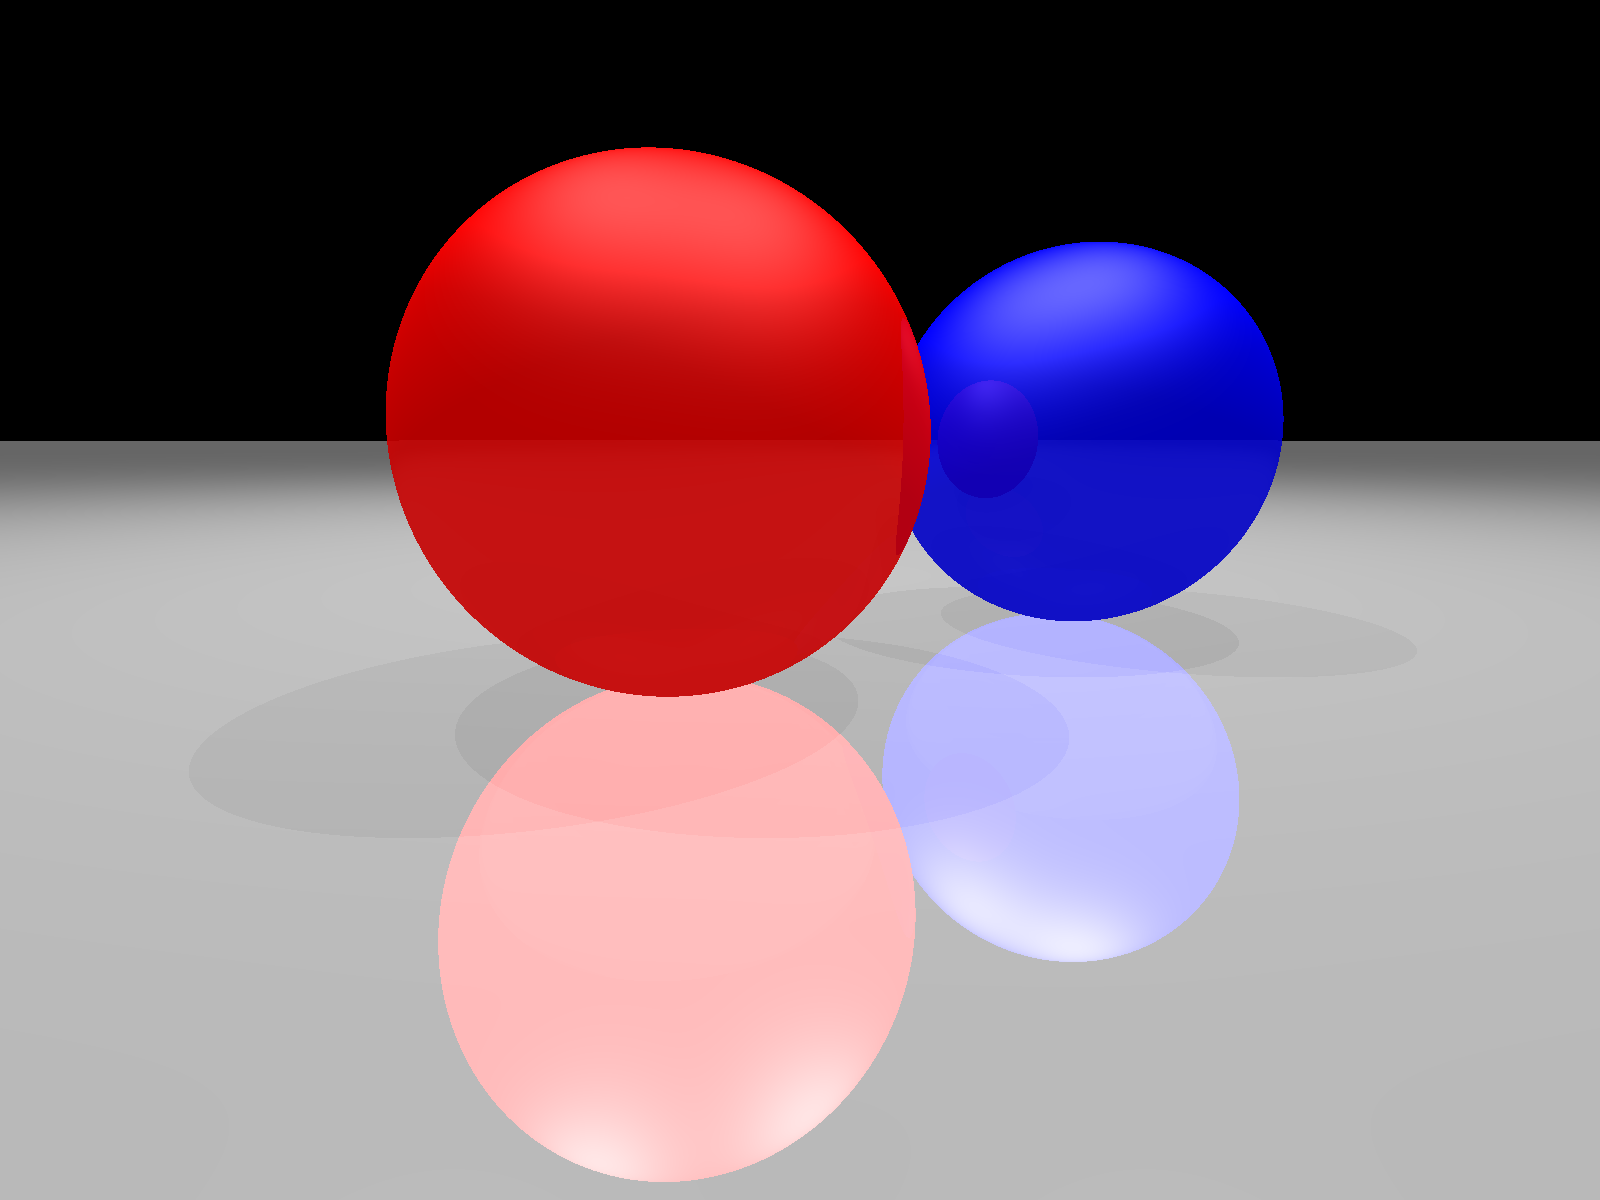
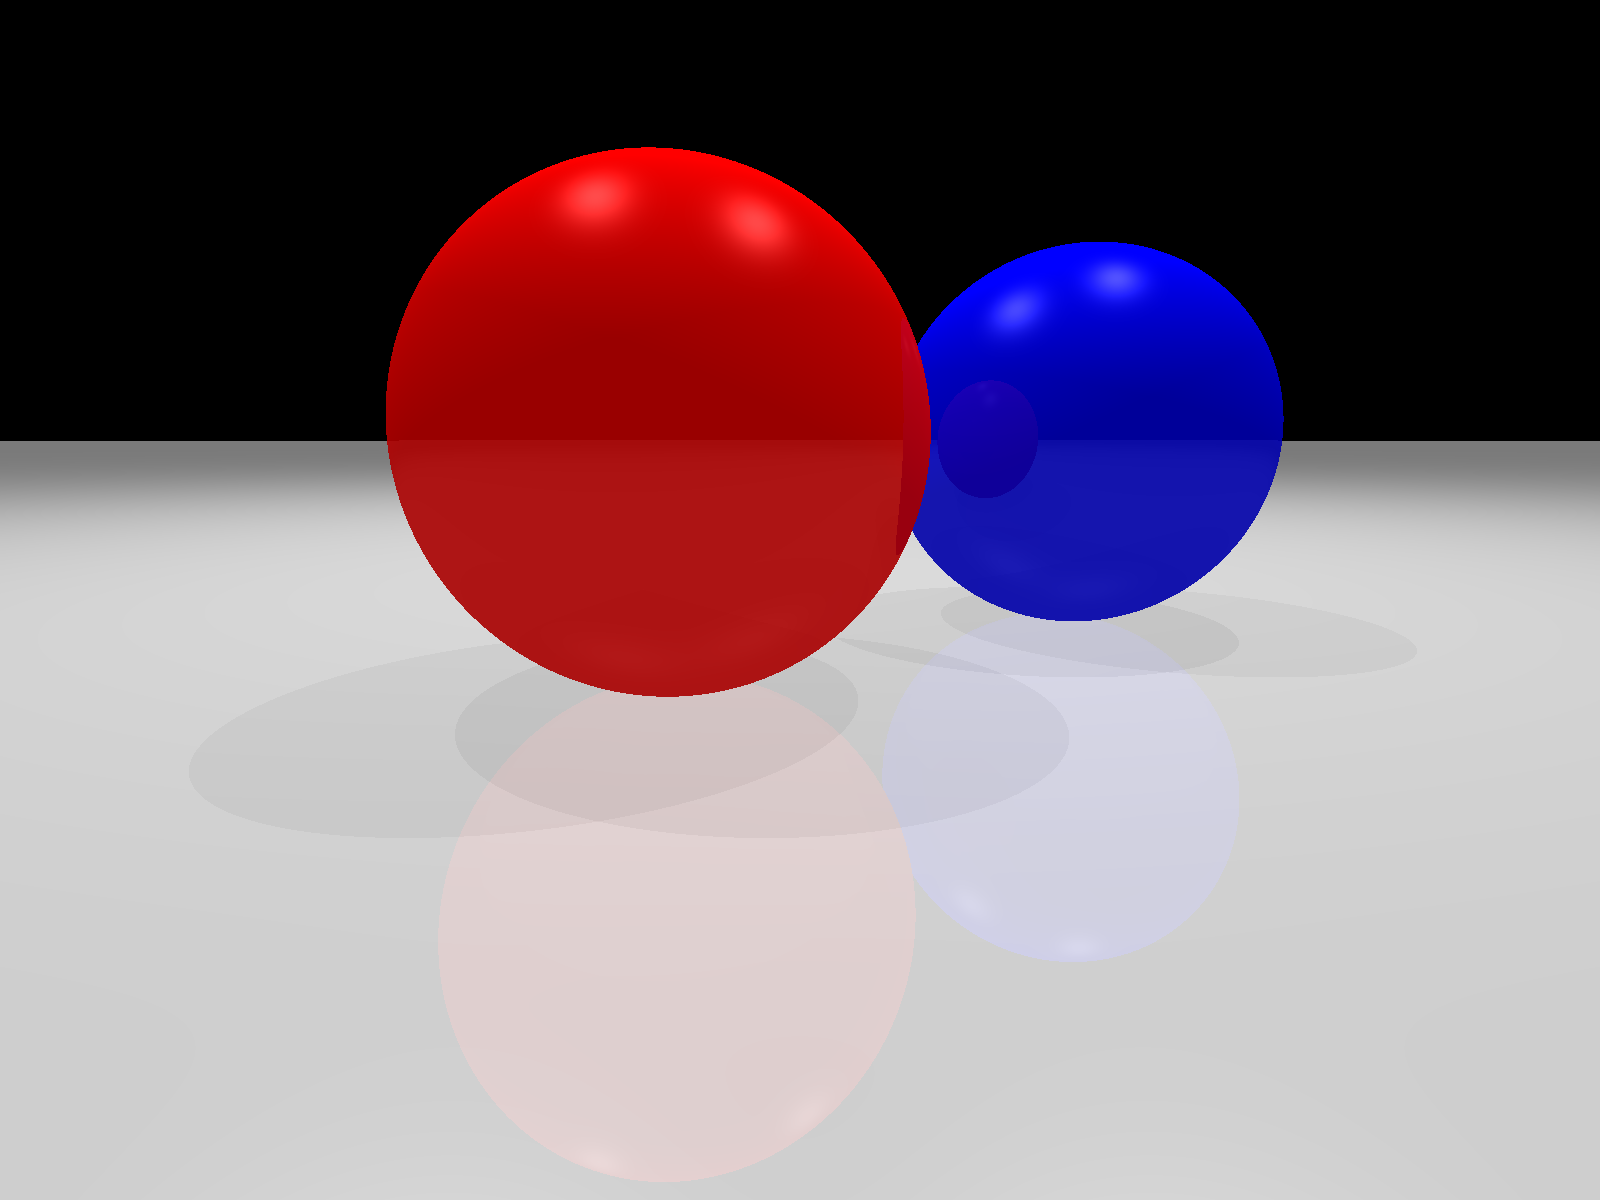
Change lighting model to reduce ambient and make spheres more shiny

Changed region(s): [[0.1562, 0.4625, 0.7812, 1.0], [0.2188, 0.1233, 0.8125, 0.4625], [0.625, 0.9558, 0.8438, 1.0]]

diff --git a/clifftrace.py b/clifftrace.py
@@ -262,16 +262,16 @@ a3 = 0.002
 w = 1600
 h = 1200
 options = {'ambient': True, 'specular': True, 'diffuse': True}
-ambient = 0.5
+ambient = 0.3
 k = 1.  # Magic constant to scale everything by the same amount!
 max_depth = 2
 background = np.zeros(3) # [66./520., 185./510., 244./510.]
 
 # Add objects to the scene:
 scene = []
-scene.append(Sphere(-2.*e1 - 7.2*e2 + 4.*e3, 4., np.array([1., 0., 0.]), k*1., 10., k*0.7, k*1., k*0.1))
-scene.append(Sphere(6.*e1 - 2.0*e2 + 4.*e3, 4., np.array([0., 0., 1.]), k*1., 10., k*0.7, k*1., k*0.1))
-scene.append(Plane(20.*e2+ e1, 20.*e2, 21.*e2, np.array([0.8, 0.8, 0.8]), k*0.3, 100., k*0.5, k*1., k*0.6))
+scene.append(Sphere(-2.*e1 - 7.2*e2 + 4.*e3, 4., np.array([1., 0., 0.]), k*1., 100., k*1., k*1., k*0.1))
+scene.append(Sphere(6.*e1 - 2.0*e2 + 4.*e3, 4., np.array([0., 0., 1.]), k*1., 100., k*1., k*1., k*0.1))
+scene.append(Plane(20.*e2+ e1, 20.*e2, 21.*e2, np.array([0.8, 0.8, 0.8]), k*1., 100., k*1., k*1., k*0.1))
 
 # Camera definitions
 cam = 4.*e3 - 20.*e2
